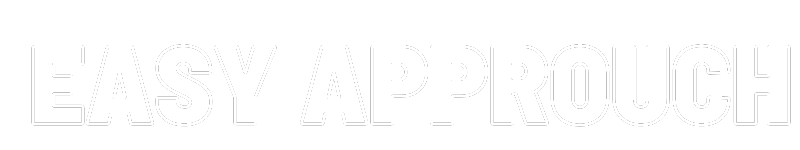
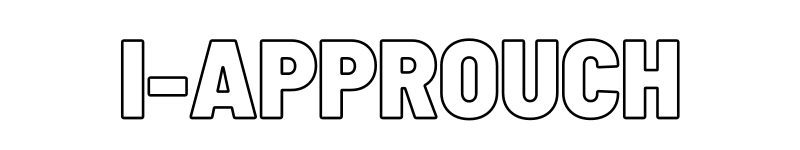
feat: ia

diff --git a/index.html b/index.html
@@ -10,163 +10,49 @@
     <link rel="preconnect" href="https://fonts.gstatic.com" crossorigin>
     <link href="https://fonts.googleapis.com/css2?family=Montserrat&display=swap" rel="stylesheet">
     <script src="https://ajax.googleapis.com/ajax/libs/jquery/1/jquery.min.js"></script>
+    <link href="https://cdn.jsdelivr.net/npm/bootstrap@5.3.0-alpha3/dist/css/bootstrap.min.css" rel="stylesheet" integrity="sha384-KK94CHFLLe+nY2dmCWGMq91rCGa5gtU4mk92HdvYe+M/SXH301p5ILy+dN9+nJOZ" crossorigin="anonymous">
     <link rel="shortcut icon" type="image/jpg" href="https://juankarmjackson.github.io/easyapprouch.github.io/assets/img/easyapprouch.png"/>
-    <link rel="stylesheet" href="assets/CSS/index.css">
+    <link rel="stylesheet" href="assets/CSS/iapprouch.css">
     <title>Easy Approuch</title>
 </head>
 <body>
-    <section class="slider">
-            <div class="title">
-                <img src="assets/img/easy4.png" alt="Easy Approuch | Proposal System">
-            </div>
-            <div class="formulario plan">
-                <div class="form">
-                    <label for="">Nombre Completo</label>
-                    <input type="text" placeholder="Escribe Tu Nombre" id="nombre">
-                    <label for="">Teléfono</label>
-                    <input type="text" id="telefono">
-                    <label for="">Email</label>
-                    <input type="text" id="email">
-                    <label for="">Nombre de Tu Empresa</label>
-                    <input type="text" id="nombreempresa">
-                    <label for="">¿Qué es lo que estás buscando?</label>
-                    <textarea placeholder="Escribe aquí lo que buscas para tu empresa" id="observaciones"></textarea>
-                    <button id="inputBoton">Enviar</button>
-                </div>
-            </div>
-    </section>
-    <section class="resultados">
-        <div class="text-resultados">
-            <h2>Presupuesta al Instante</h2>
-        <p>El momento de enviar una propuesta es fundamental:  <span style="text-decoration: underline; font-weight: bold;"> Una oferta irresistible, bien estructurada , clara y única.</span></p>
-        <p>Una buena propuesta lleva tiempo, para captar un nuevo cliente, el tiempo corre en contra. Debemos hacerlo rápido , bonito , llamativo en un tiempo récord.</p>
-        <p>Con nuestra herramientas aumentarás el número de cierre de clientes.</p>
+   <header>
+     <div class="title">
+        <h1>IApprouch</h1>
+        <h2>Tu Asistente Virtual con IA</h2>
+     </div>
+   </header>
+   <section class="chat">
+    <div class="title">
+        <div class="ia">
+            <input type="text">
         </div>
-        <div class="video-resultados">
-            <div class="video"></div>
-        </div>
-    </section>
-    <section class="informacion">
-        <h1>INTEGRACIONES</h1>
-        <div class="slider2">
-            <div class="slide-track">
-                <div class="slide">
-                    <img src="assets/img/1.png">
-                </div>
-                <div class="slide">
-                    <img src="assets/img/2.png">
-                </div>
-                <div class="slide">
-                    <img src="assets/img/3.png">
-                </div>
-                <div class="slide">
-                    <img src="assets/img/4.png">
-                </div>
-                <div class="slide">
-                    <img src="assets/img/5.png">
-                </div>
-                <div class="slide">
-                    <img src="assets/img/6.png">
-                </div>
-                <div class="slide">
-                    <img src="assets/img/1.png">
-                </div>
-                <div class="slide">
-                    <img src="assets/img/2.png">
-                </div>
-                <div class="slide">
-                    <img src="assets/img/3.png">
-                </div>
-                <div class="slide">
-                    <img src="assets/img/4.png">
-                </div>
-                <div class="slide">
-                    <img src="assets/img/5.png">
-                </div>
-                <div class="slide">
-                    <img src="assets/img/6.png">
-                </div>
-            </div>
-        </div>
-   </section>
-   <section class="desarrollo">
-        <div class="video-desarrollo">
-            <div class="video"></div>
-        </div>
-        <h1 style="text-align: center;">SISTEMA DE CRM LEADS, PROPUESTA , PRESUPUESTADO Y CONTRATO : TODO EN UNO</h1>
-        <iframe src="https://www.videoask.com/fkacscnko" allow="camera *; microphone *; autoplay *; encrypted-media *; fullscreen *; display-capture *;" width="100%" height="600px" style="border: none; border-radius: 24px"></iframe>
-   </section>
-   <h1 style="text-align: center;">CASOS DE ÉXITO</h1>
-   <section class="exito">
-        <div class="slide-exito">
-            <div class="fondo-exito" style="background-image: url(assets/img/lets.png); background-size: cover;"></div>
-            <h2>Lets Marketing</h2>
-            <p>Creamos un sistema de captación de 10 - 15 Leads al día, con CRM personalizado a su negocio , con un sistema de presupuestado, un sistema de contratos y un sistema de pagos. <br> <br>
-                Además de formar a su equipo de ventas. En un mes pasó a 124 Leads de alta calidad, 50 reuniones, 20 cierres. Una facturación de 50K en ese primer mes.
-            </p>
-        </div>
-        <div class="slide-exito">
-            <div class="fondo-exito"
-                 style="background-image: url(assets/img/sushiwakka.png); background-size: cover;"></div>
-            <h2>Sushiwakka Express</h2>
-            <p>Creamos un sistema de Delivery limitada por zonas específicas de los 4 locales en Madrid. <br><br>
-                Sistemas de fidelización por puntos , con una plataforma que da una experiencia de usuario única y sencilla. <br><br>
-                Conectamos además los pedidos online y los pedidos en locales en un mismo CRM junto con los pedidos de Just Eat y Glovo. <br><br>
-                Desarrollamos un QR smart con una carta digital sencilla para pedir desde el móvil. <br><br> Multiplicamos X3 su facturación y optimizamos sus tiempos y costes.
-            </p>
-        </div>
-        <div class="slide-exito">
-            <div class="fondo-exito"
-                 style="background-image: url(assets/img/amattex.png); background-size: cover;"></div>
-            <h2>Grupo Amattex</h2>
-            <p>Creamos tiendas B2C alrededor de este grupo, que además tiene su propia fábrica textil. Usamos Shopify , Facebook Ads , Google Ads Shopping
-                y Flujos de Email Marketing y SMS , Influencers , es decir estrategias omnicanal.<br><br> El primer año facturó 2.5 Millones en total en todas sus tiendas online.
-            </p>
-        </div>
-   </section>
-   <section class="consultores">
-        <div class="consultores-text">
-            <h1>Consultores Estratégicos</h1>
-            <p>Somos consultores estratégicos, analizamos empresas y creamos las estrategias para obtener los mejores resultados.
-                Planteamos estrategias ya testeadas y probadas. <br> <br>
-                Ejecutamos con los mejores profesionales y obtendrás una comunicación directa con el equipo.
-            </p>
-        </div>
-        <div class="consultores-img"></div>
-   </section>
-   <section class="contacto">
-    <div class="form">
-        <h1>Contáctanos</h1>
-       <div class="box-preguntas">
-        <div class="preguntas">
-            <div>
-                <label for="">Nombre Completo</label> <br>
-                <input type="text" placeholder="Escribe Tu Nombre"> <br>
-                <label for="">Teléfono</label> <br>
-                <input type="text"> <br>
-           </div>
-           <div>
-                <label for="">Nombre de Tu Empresa</label> <br>
-                <input type="text"> <br>
-                <label for="">Web</label> <br>
-                <input type="text">
-           </div>
-       </div>
-        <div class="comentario">
-            <label for="">¿Qué es lo que estás buscando?</label>
-            <textarea placeholder="Escribe aquí lo que buscas para tu empresa" class="observaciones"></textarea>
-            <button id="inputBoton2">Enviar</button>
-        </div>
-       </div>
     </div>
-</section>
-<footer>
-    <ul>
-        <li>Políticas de Empresa</li>
-        <li>Preguntas Frecuentes</li>
-        <li>Aviso Legal</li>
-    </ul>
-</footer>
+   </section>
+   <section class="ventajas">
+        <div class="ventaja">
+            <img src="assets/img/star.png">
+            <h1>152.000</h1>
+            <h2>Usuarios</h2>
+        </div>
+        <div class="ventaja">
+            <img src="assets/img/zapa.png">
+            <h1>1.402.041</h1>
+            <h2>Conversaciones</h2>
+        </div>
+        <div class="ventaja">
+            <img src="assets/img/elice.png">
+            <h1>5880</h1>
+            <h2>Citas Agendadas</h2>
+        </div>
+   </section>
+   <footer>
+        <div class="enlace">
+            <li>Correo: Easyapprouch@easyapprouch.com</li>
+            <li>Teléfono: 611 71 75 71</li>
+            <li>Whatsapp: 679 638 692</li>
+        </div>
+   </footer>
     <script type="module">
         const inputBoton = document.getElementById('inputBoton');
 console.log(inputBoton);
@@ -240,6 +126,7 @@ $('#inputBoton2').click(function () {
 });
 
     </script>
+    <script src="https://cdn.jsdelivr.net/npm/bootstrap@5.3.0-alpha3/dist/js/bootstrap.bundle.min.js" integrity="sha384-ENjdO4Dr2bkBIFxQpeoTz1HIcje39Wm4jDKdf19U8gI4ddQ3GYNS7NTKfAdVQSZe" crossorigin="anonymous"></script>
     <script src="https://cdnjs.cloudflare.com/ajax/libs/axios/0.18.0/axios.min.js"></script>
     <script src="https://unpkg.com/aos@2.3.1/dist/aos.js"></script>
    

diff --git a/assets/CSS/iapprouch.css b/assets/CSS/iapprouch.css
@@ -1,0 +1,97 @@
+body{
+    margin: 0;
+}
+
+
+header{
+    height: 100vh;
+    display: flex;
+    justify-content: center;
+    align-items: center;
+    background-image: url(../img/fondoeasy3.png);
+    background-size: cover;
+    color: white;
+}
+
+.title{
+    border-radius: 1.5rem;
+    background: rgba(255, 255, 255, 0.1);
+    backdrop-filter: blur(6px);
+    padding: 20px;
+    text-align: center;
+}
+
+.chat{
+    height: 100vh;
+    display: flex;
+    justify-content: center;
+    align-items: center;
+    background-image: url(../img/fondoeasy4.png);
+    background-size: cover;
+    color: white;
+}
+
+.ia{
+    height: 500px;
+    width: 301px;
+    display: flex;
+    justify-content: center;
+    align-items: end;
+    margin: auto;
+}
+
+.ventajas {
+    height: 100vh;
+    display: flex;
+    justify-content: center;
+    align-items: center;
+    background-image: url(../img/fondoeasy3.png);
+    background-size: cover;
+    color: white;
+}
+
+.ventajas .ventaja{
+    border-radius: 1.5rem;
+    background: rgba(255, 255, 255, 0.1);
+    backdrop-filter: blur(6px);
+    padding: 20px;
+    text-align: center;
+    margin: 20px;
+}
+
+.ventaja img{
+    width: 250px;
+}
+
+footer{
+    height: 50vh;
+    display: flex;
+    justify-content: center;
+    align-items: center;
+    background-image: url(../img/fondoeasy5.png);
+    background-size: cover;
+    color: white;
+}
+
+footer .enlace{
+    text-align: end;
+}
+
+footer .enlace li{
+    list-style: none;
+}
+
+/* MEDIAS QUERYS */
+
+@media (max-width: 1100px) {
+    .ventajas {
+        display: block;
+        height: auto;
+    }
+
+    .ventajas .ventaja{
+        margin: 5px;
+    }
+
+
+}
